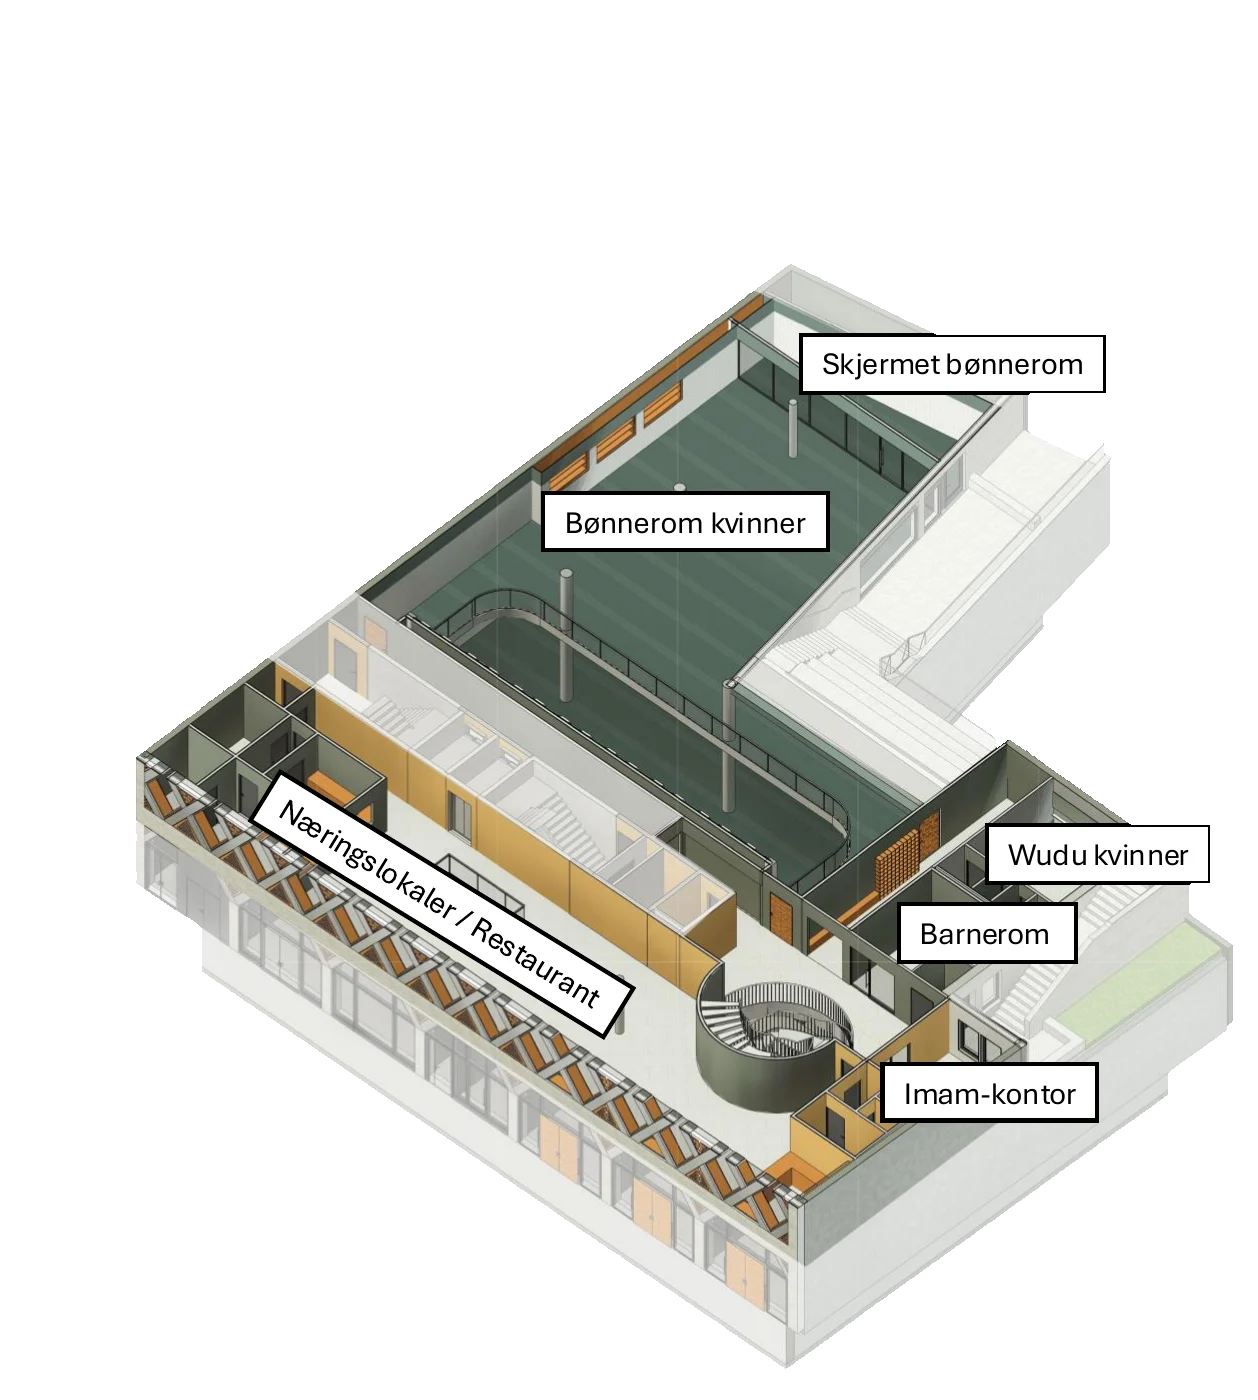
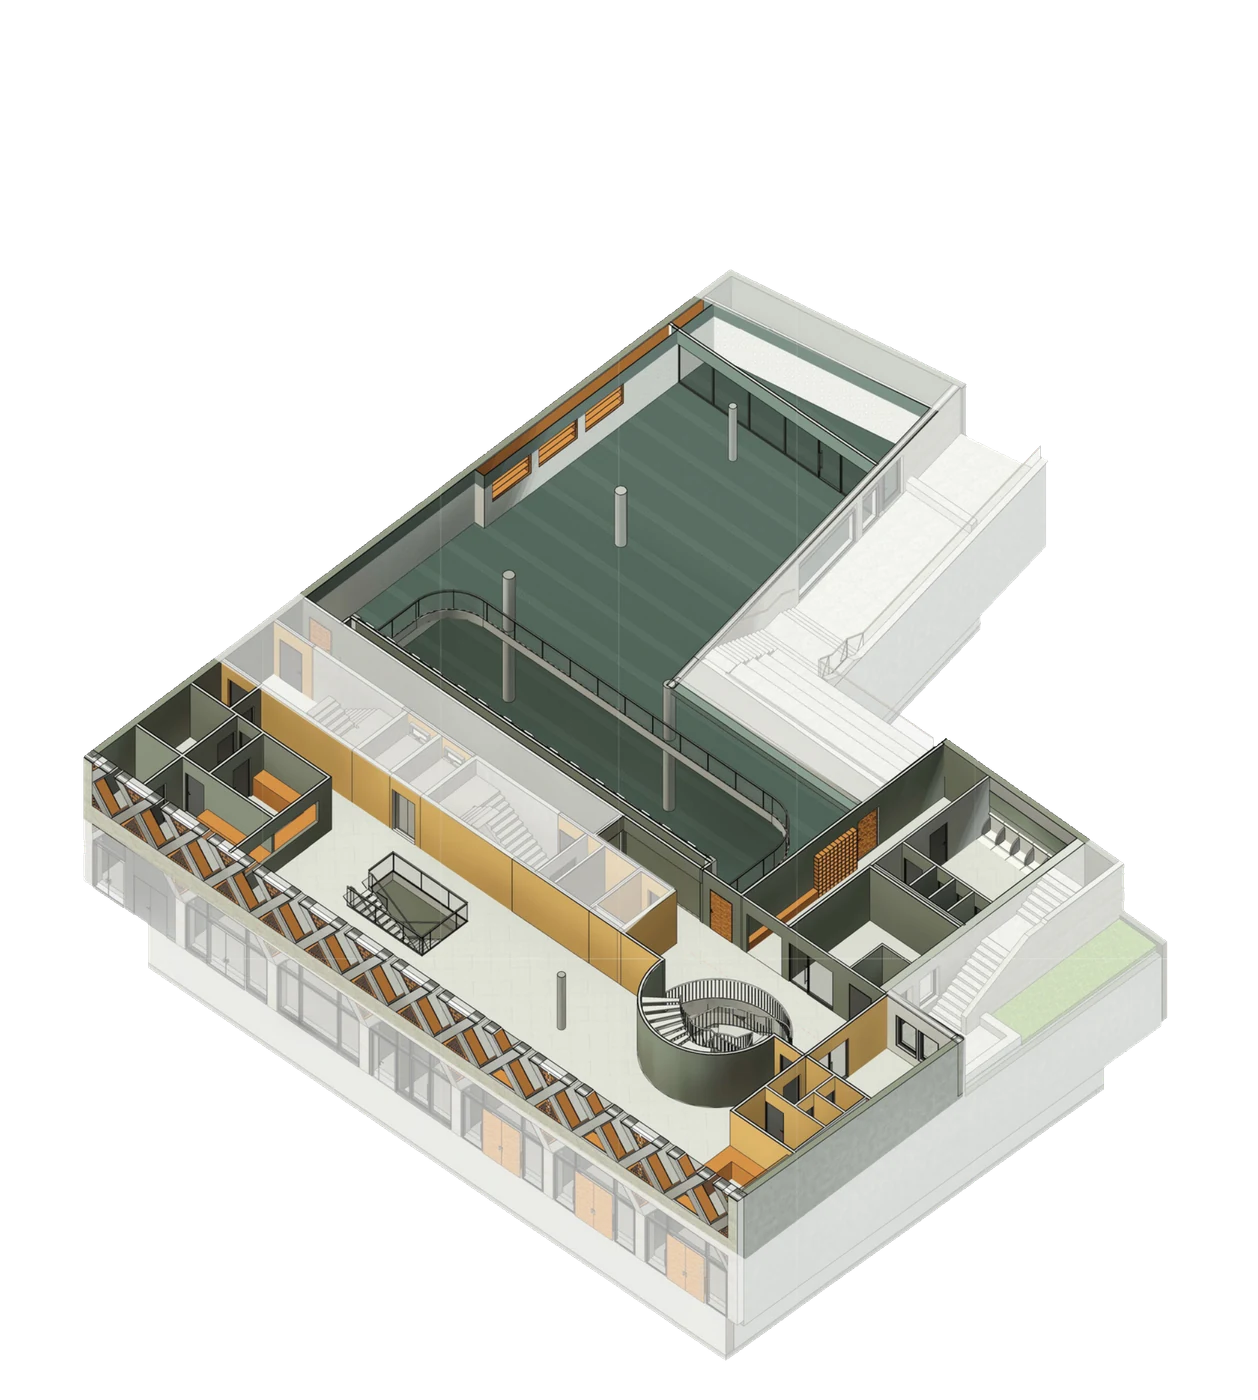
Floor by floor: new clean drawings, and the labels drawn by us
Client, 2026-09-09: the boss wants the arrows and text placed by us
rather than baked into the architect's export.

THE DRAWINGS. Re-cut from the new deck (Untitled design.pdf, 8 pages,
Canva, 1440x810). Each page is a drawing on the left and a sidebar —
logo, floor name, "Sold %", HLF credit — on the right. Measured rather
than eyeballed: across all eight pages the drawings occupy x 211-626 of
1000 with an empty gutter at 627-834 and the sidebar beyond it, so one
crop box takes the drawing and nothing else.

That box is used unchanged for all eight, which is the whole effect. The
union bbox proves the registration: the base sits at y 529-533 on every
page while the top climbs 185 -> 22 as storeys are added. The frames are
cut at -r 200 with one -x/-y/-W/-H, padded to the existing 1258x1400 so
no layout moves.

Cut out onto transparency with a border flood fill written for the job —
no ImageMagick here — so only white CONNECTED to the outside goes and the
building's own white walls survive, then dilated 2px to eat the
anti-aliased rim. Opaque area rises 26% -> 51% across the eight, which is
what a building gaining floors should do.

The deck is already bottom-up, so it maps 1:1 onto the existing KEYS with
no reversal — unlike the last one.

THE LABELS. New FloorMarkers overlay: a gold ring on the room, a hairline
leader out to the dusk, the name in mono at the end of it. Percentages of
the frame, not pixels, so they hold at every size; the overlay reproduces
[…]

diff --git a/components/floor-markers.tsx b/components/floor-markers.tsx
@@ -1,0 +1,100 @@
+'use client';
+
+import { useTranslations } from 'next-intl';
+import { cn } from '@/lib/cn';
+import { FLOOR_MARKERS, type FloorMarker } from '@/lib/floor-markers';
+
+// The labels over a floor drawing: a gold point on the room, a hairline
+// leader out to the dusk, and the name in mono at the end of it.
+//
+// Replaces the white boxes the architect's old deck had baked in. Those sat
+// ON the building and hid what they pointed at; a point and a leader name the
+// room without covering it, and they are ours to move.
+//
+// Desktop and tablet only (client, 2026-09-09: phones stay as they are).
+// There is no room for leaders beside a drawing on a 390px screen, and the
+// floor name under the plate already says what the storey is.
+export function FloorMarkers({ floorKey, active }: { floorKey: string; active: boolean }) {
+  const t = useTranslations('floorByFloor.rooms');
+  const markers: FloorMarker[] = FLOOR_MARKERS[floorKey] ?? [];
+  if (markers.length === 0) return null;
+
+  return (
+    // Mirrors the drawing's own painted box. The <Image> is object-contain
+    // object-bottom, so on a pane taller than the frame's 1258/1400 the
+    // picture is height-constrained and bottom-aligned — which is exactly
+    // what an items-end box of the same aspect ratio reproduces. Percentages
+    // then land on the building rather than on the letterbox.
+    <div
+      aria-hidden
+      className="pointer-events-none absolute inset-0 hidden items-end justify-center md:flex"
+    >
+      <div className="relative h-full" style={{ aspectRatio: '1258 / 1400' }}>
+        {/* Leaders and points. viewBox in the same percentage space as the
+           marker data; non-scaling-stroke keeps the hairline a hairline
+           however the box is stretched. */}
+        <svg
+          viewBox="0 0 100 100"
+          preserveAspectRatio="none"
+          className="absolute inset-0 h-full w-full overflow-visible"
+        >
+          {markers.map((m, i) => (
+            <g
+              key={m.id}
+              className={cn(
+                'transition-opacity duration-500 ease-out motion-reduce:transition-none',
+                active ? 'opacity-100' : 'opacity-0',
+              )}
+              style={{ transitionDelay: active ? `${180 + i * 90}ms` : '0ms' }}
+            >
+              <line
+                x1={m.x}
+                y1={m.y}
+                x2={m.lx}
+                y2={m.ly}
+                stroke="#C0A165"
+                strokeWidth={1}
+                strokeOpacity={0.55}
+                vectorEffect="non-scaling-stroke"
+              />
+              <circle
+                cx={m.x}
+                cy={m.y}
+                r={3}
+                fill="none"
+                stroke="#C0A165"
+                strokeWidth={1}
+                vectorEffect="non-scaling-stroke"
+                style={{ transformBox: 'fill-box', transformOrigin: 'center' }}
+              />
+              <circle cx={m.x} cy={m.y} r={1} fill="#C0A165" vectorEffect="non-scaling-stroke" />
+            </g>
+          ))}
+        </svg>
+
+        {/* The names. HTML rather than SVG text, so they keep the site's own
+           mono face and letter-spacing at any size. */}
+        {markers.map((m, i) => (
+          <span
+            key={m.id}
+            className={cn(
+              'absolute whitespace-nowrap font-mono text-[0.625rem] uppercase leading-none tracking-[0.16em] text-paper/90 transition-opacity duration-500 ease-out motion-reduce:transition-none',
+              active ? 'opacity-100' : 'opacity-0',
+            )}
+            style={{
+              left: `${m.lx}%`,
+              top: `${m.ly}%`,
+              // The leader arrives on the label's inner edge, so the text
+              // always runs AWAY from the building.
+              transform: `translate(${m.align === 'end' ? '-100%' : '0'}, -50%)`,
+              paddingInline: m.align === 'end' ? '0 0.5rem' : '0.5rem 0',
+              transitionDelay: active ? `${240 + i * 90}ms` : '0ms',
+            }}
+          >
+            {t(m.id)}
+          </span>
+        ))}
+      </div>
+    </div>
+  );
+}

diff --git a/lib/floor-markers.ts b/lib/floor-markers.ts
@@ -1,0 +1,43 @@
+// Where each room sits on each floor drawing, and where its label goes.
+//
+// The architect's deck ships the drawings clean; the labels are ours to draw
+// (client, 2026-09-09: "we will draw arrows at exact places and show the text
+// ourselves"). The previous deck had them baked in as white boxes, which is
+// what this replaces.
+//
+// Coordinates are PERCENTAGES of the drawing frame, not pixels, so they hold
+// at every size the plate is rendered at. `x`/`y` is the point on the
+// building the label is about; `lx`/`ly` is where the text sits, out on the
+// dusk ground. A leader line joins the two.
+//
+// `align` says which side of the label the leader arrives on, so the text
+// runs away from the building rather than back across it.
+export type FloorMarker = {
+  /** Indexes floorByFloor.rooms.<id> for the label text. */
+  id: string;
+  x: number;
+  y: number;
+  lx: number;
+  ly: number;
+  align: 'start' | 'end';
+};
+
+export const FLOOR_MARKERS: Record<string, FloorMarker[]> = {
+  // Read off the drawing against a percentage grid, not estimated: the
+  // prayer hall's green floor, the changing rooms on the west strip, the
+  // ablution cubicles east of the hall, and the sports court in the south
+  // wing.
+  lower: [
+    { id: 'garderober', x: 24, y: 67, lx: 6, ly: 57, align: 'end' },
+    { id: 'prayerMen', x: 46, y: 55, lx: 24, ly: 33, align: 'end' },
+    { id: 'wuduMen', x: 72, y: 72, lx: 88, ly: 61, align: 'start' },
+    { id: 'sportsHall', x: 55, y: 80, lx: 80, ly: 91, align: 'start' },
+  ],
+  first: [],
+  second: [],
+  third: [],
+  fourth: [],
+  fifth: [],
+  sixth: [],
+  whole: [],
+};

diff --git a/components/floor-by-floor.tsx b/components/floor-by-floor.tsx
@@ -4,6 +4,7 @@ import Image from 'next/image';
 import { useEffect, useRef, useState } from 'react';
 import { useTranslations } from 'next-intl';
 import { cn } from '@/lib/cn';
+import { FloorMarkers } from './floor-markers';
 
 // The building floor by floor, from the architect's own labelled cutaways
 // (Fasiliteter.pdf, client 2026-09-03), shown bottom to top: the lower-floor
@@ -140,6 +141,11 @@ export function FloorByFloor() {
                   i === step ? 'opacity-100' : 'opacity-0',
                 )}
               />
+            ))}
+
+            {/* Our own labels, over the drawing that is currently lit. */}
+            {KEYS.map((k, i) => (
+              <FloorMarkers key={k} floorKey={k} active={i === step} />
             ))}
           </div>
         </div>
